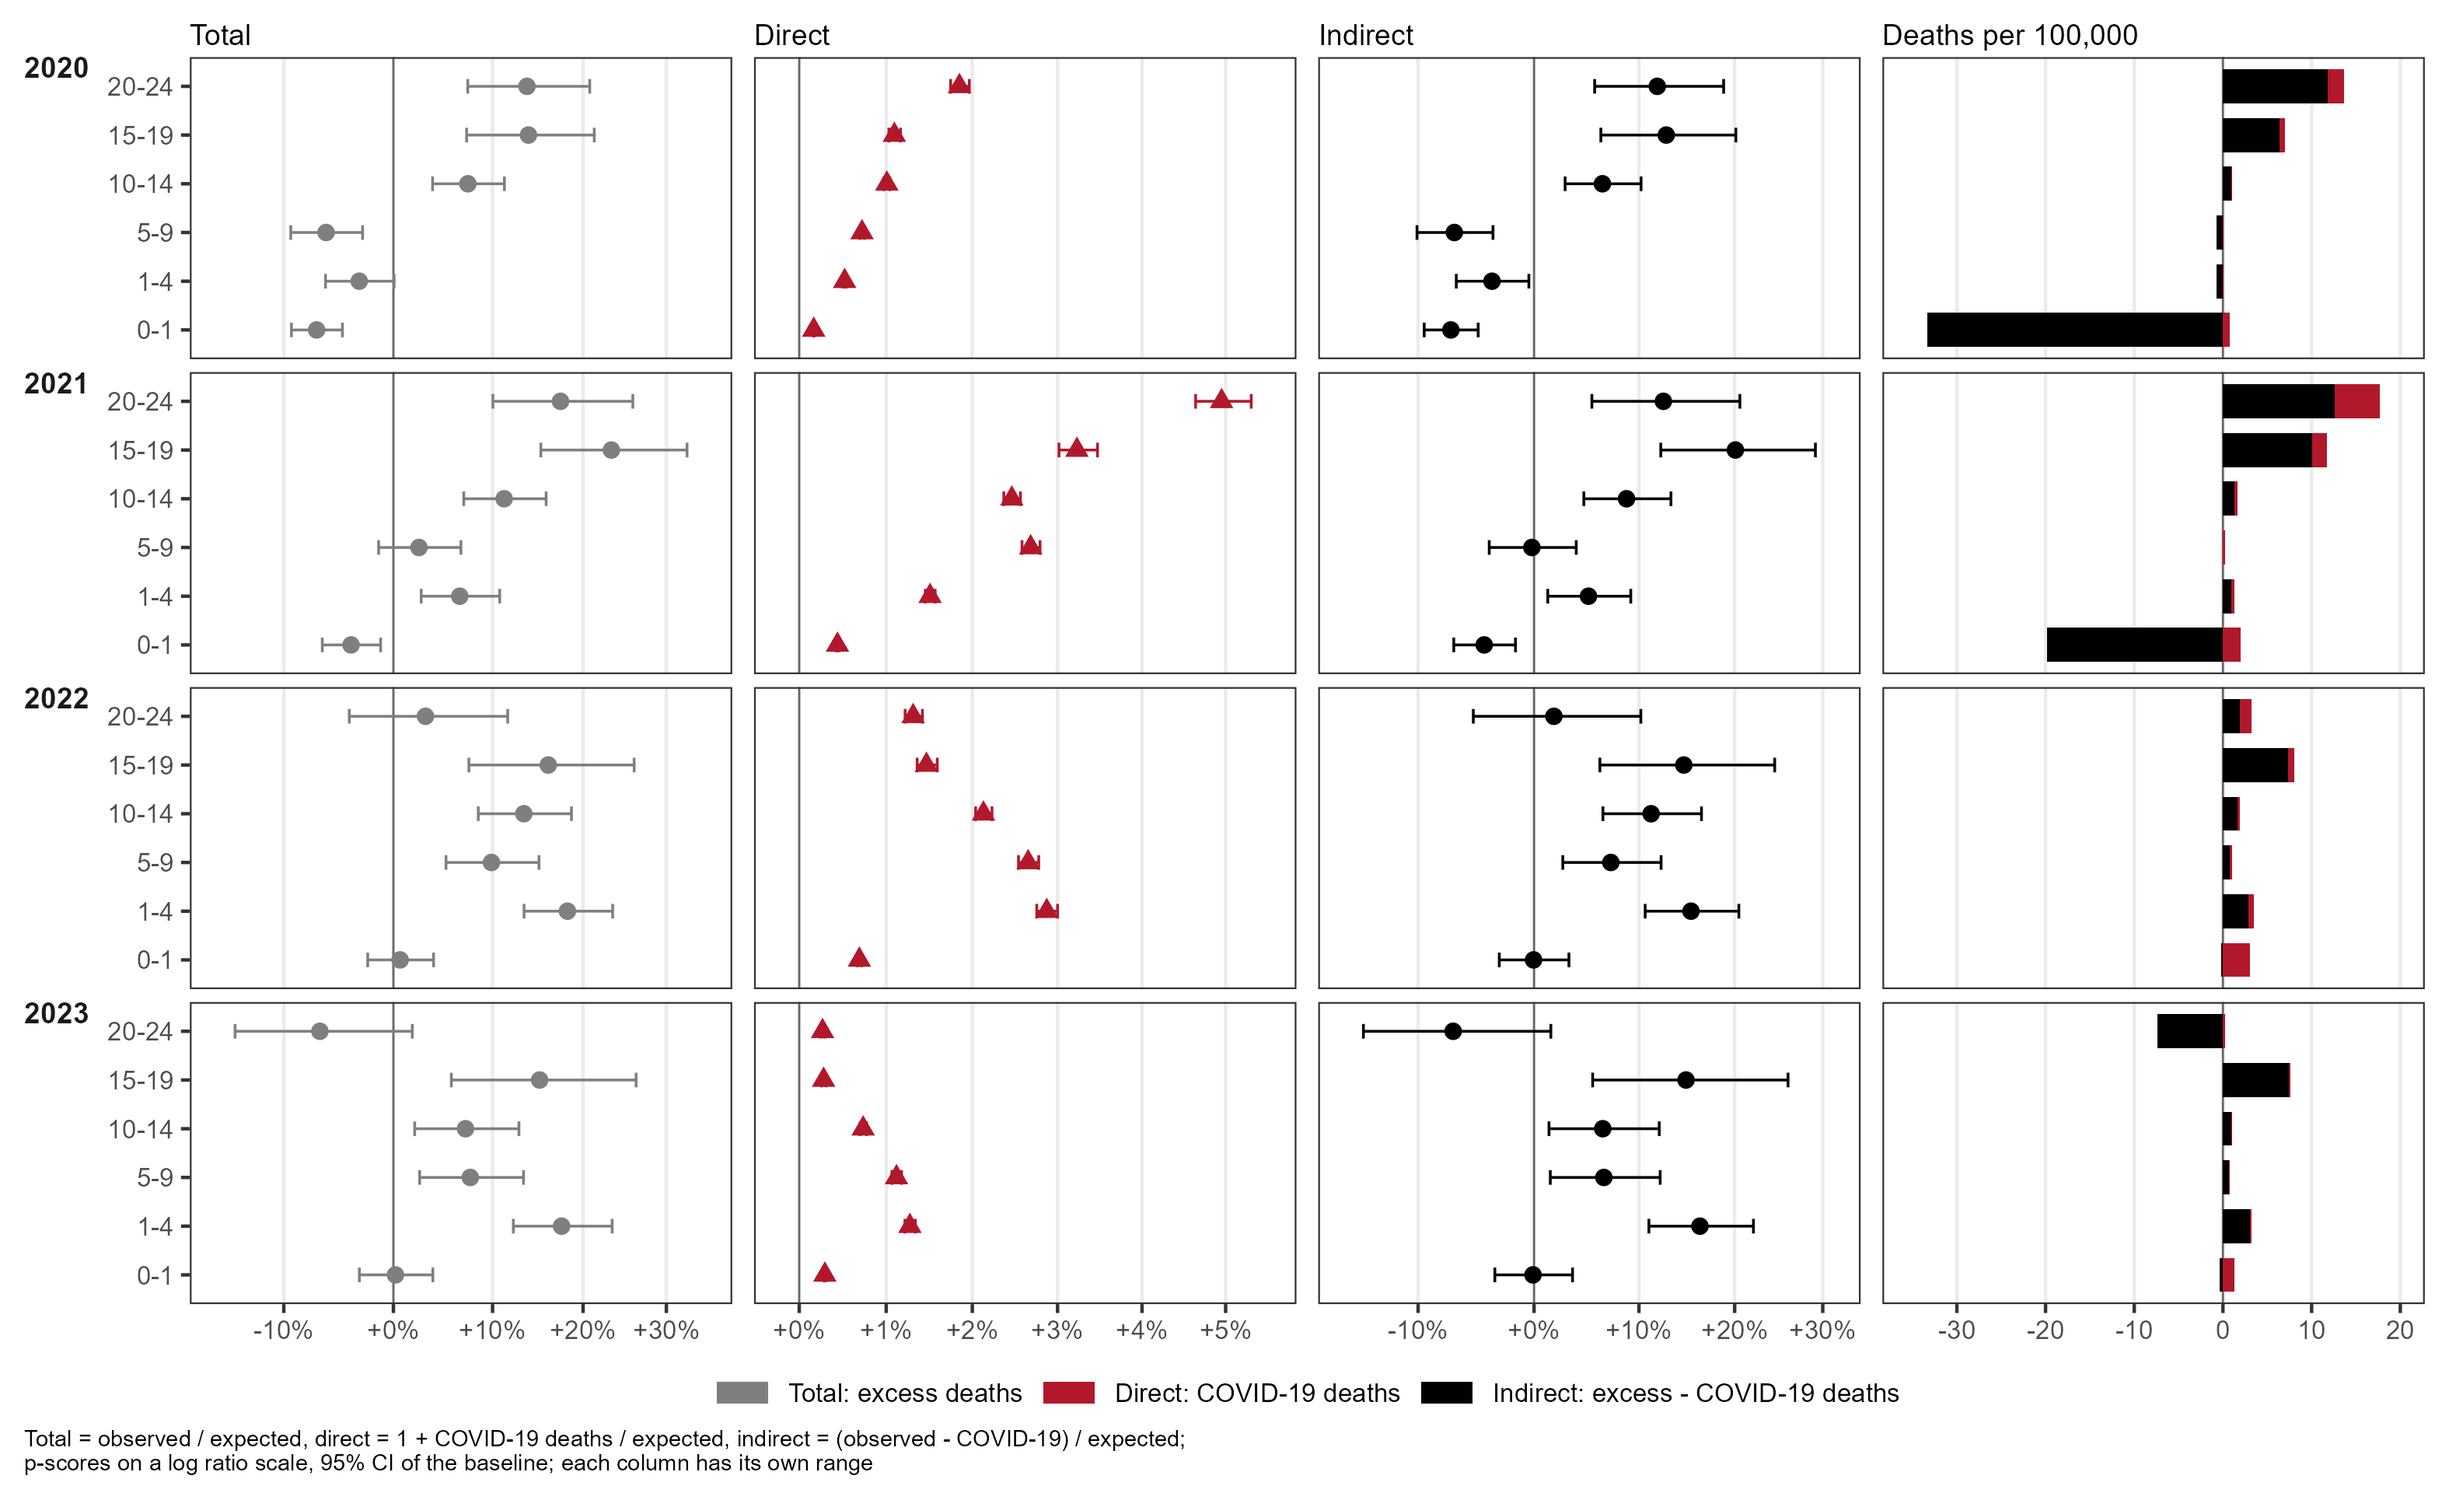
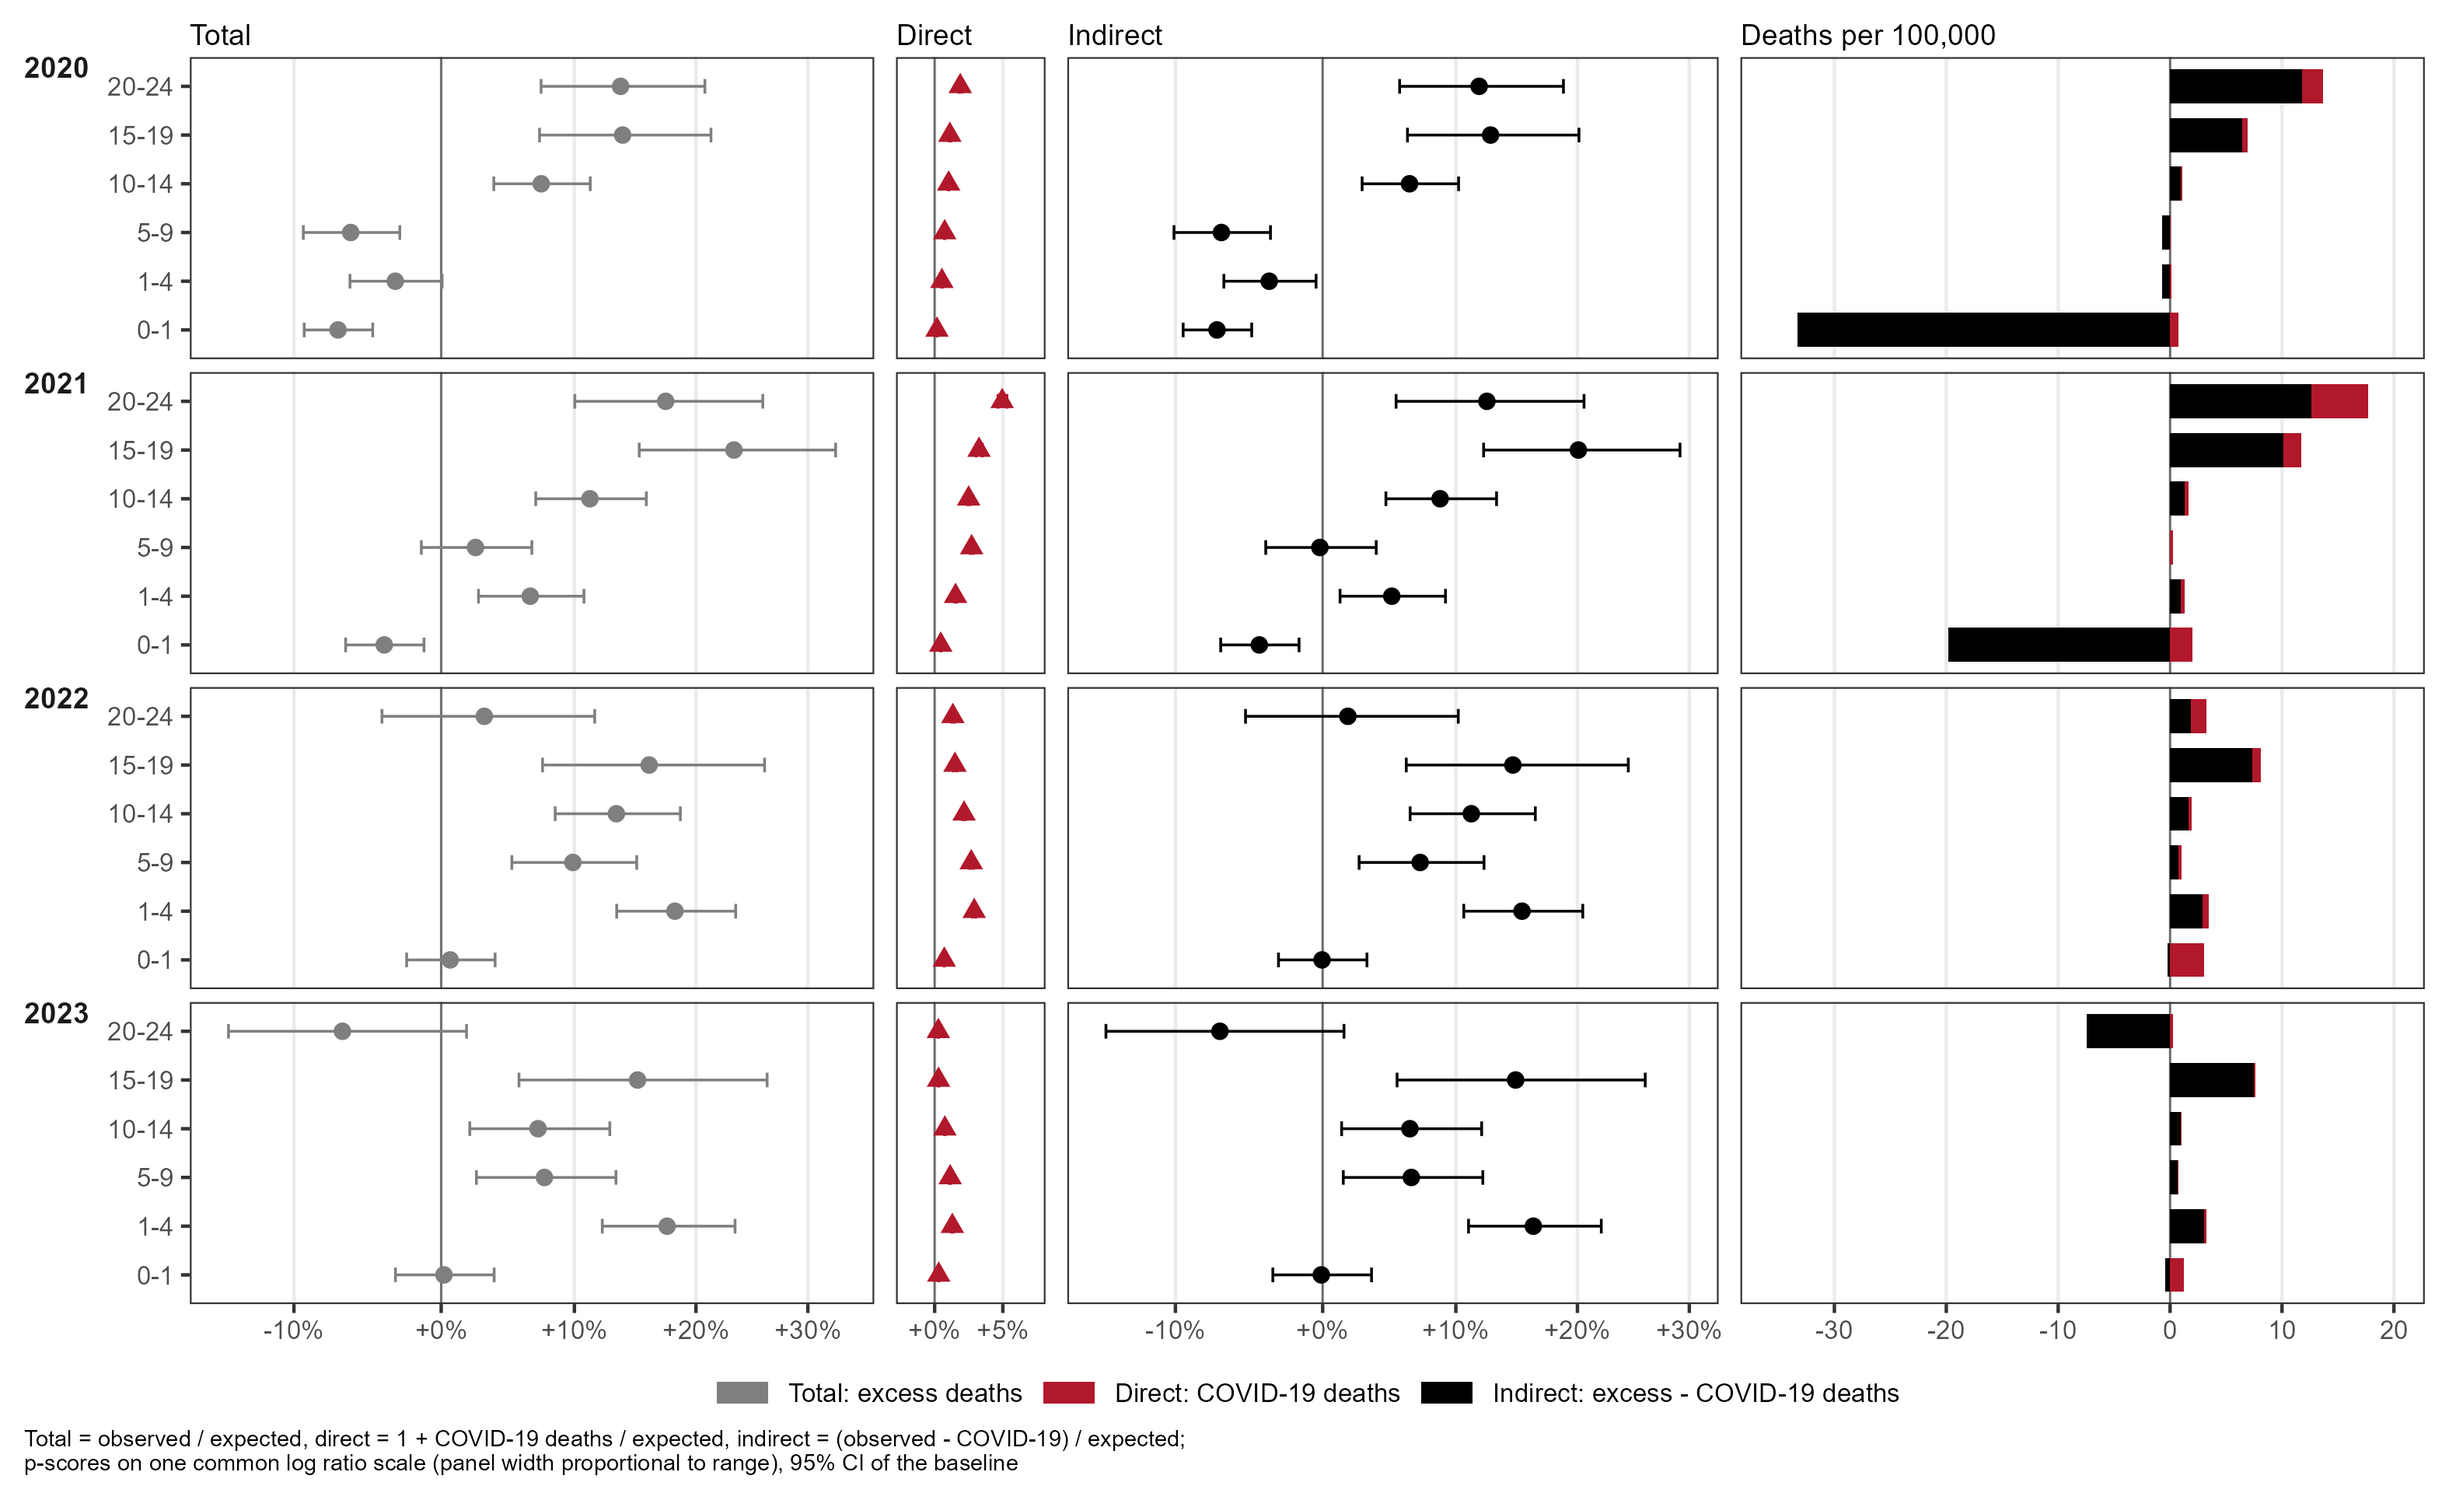
Figure 1 alternative B: one common x scale with panel widths proportional to range; drop variant C

diff --git a/README.md b/README.md
@@ -33,7 +33,7 @@ Developed with R 4.6.1 on Windows; package versions are pinned in `renv.lock`.
 | `code/10_sensitivity.R` | `figures/figS1_sensitivity_excess_by_age.png`, `figures/figS2_baselines_by_specification.png` (+ `.csv`), `output/sensitivity_summary.txt`, `figures/figS3_cv_rolling_origin.png`, `output/sensitivity_state_baseline_aggregation.csv`, `output/sensitivity_cv_rolling_origin.csv` | **Figures S1–S3**, appendix |
 | `code/11_cyp_vs_all_ages_by_state.R` | `data_inter/cyp_vs_all_ages_by_state.rds`, `tables/tableS1_pscores_cyp_share_by_state.csv` | age-standardised p-scores by state for CYP, adults and all ages; CYP share of excess and of COVID-19 deaths; CYP p-score split into direct and indirect (Table S1; mapped by `alt_fig2_maps_by_state.R`) |
 | `code/alt_00_map_helpers.R` | — | map theme and drawing functions shared by the alternative maps |
-| `code/alt_fig1_by_age.R` | `figures/alternatives/fig1_altA_pscore_by_age.png`, `fig1_altB_total_direct_indirect_by_age.png` (+ `.csv`), `fig1_altC_total_direct_indirect_common_scale.png` | alternative versions of Figure 1: A, points (rates, p-scores on a log ratio axis, COVID-19/excess with its interval); B, total, direct (COVID-19 / expected) and indirect ((excess − COVID-19) / expected) p-scores by age plus stacked direct/indirect rates; C, as B on one common scale with panel widths proportional to range |
+| `code/alt_fig1_by_age.R` | `figures/alternatives/fig1_altA_pscore_by_age.png`, `fig1_altB_total_direct_indirect_by_age.png` (+ `.csv`) | alternative versions of Figure 1: A, points (rates, p-scores on a log ratio axis, COVID-19/excess with its interval); B, total, direct (COVID-19 / expected) and indirect ((excess − COVID-19) / expected) p-scores by age on one common scale (panel widths proportional to range) plus stacked direct/indirect rates |
 | `code/alt_fig2_maps_by_state.R` | `figures/alternatives/fig2_altA_pscores_by_state.png`, `fig2_altB_cyp_pscore_diff_by_state.png`, `fig2_altC_cyp_share_by_state.png`, `fig2_altD_cyp_pscore_direct_indirect_by_state.png`, `fig2_altE_cyp_pscore_direct_indirect_common_scale.png` | alternative versions of Figure 2: A, CYP and adult p-scores and their difference (CYP minus adults); B, CYP p-score minus US and minus adults; C, CYP share of excess deaths, of COVID-19 deaths and of indirect excess (one colour scale); D, CYP p-score split into total, direct and indirect; E, as D on one common colour scale |
 | `code/12_explore_race_pscores.R` (exploratory, not in `run_all.R`) | `figures/alternatives/figR1_pscore_excess_by_race.png`, `figR2_pscore_by_race_age.png`, `figR3_direct_indirect_by_race.png` (+ `.csv`) | p-scores and excess rates by race/ethnicity, 0–24; needs `data_input/all_cause_race/` (WONDER API, see its README) |
 
@@ -75,7 +75,7 @@ Known limitations of the input data and of the estimation, in the order they aff
 code/              numbered scripts, run in order by run_all.R
 data_input/        CDC WONDER exports (inputs) + README and query index; all_cause_race/ = API pulls for script 12
 data_inter/        intermediate .rds produced by scripts 01–04 (+ cached state boundaries)
-figures/           fig1 … fig5 and figS1 … figS3 (.png) with their data (.csv), the versions in the paper; alternatives/ holds the alternative versions drawn by the alt_fig* scripts (fig1_altA–C, fig2_altA–E) and the race exploration (figR1–R3). Kept for now: fig1_altB, fig2_altC and fig2_altD
+figures/           fig1 … fig5 and figS1 … figS3 (.png) with their data (.csv), the versions in the paper; alternatives/ holds the alternative versions drawn by the alt_fig* scripts (fig1_altA/B, fig2_altA–E) and the race exploration (figR1–R3). Kept for now: fig1_altB, fig2_altC and fig2_altD
 tables/            Tables A1 and A2 (.docx and .csv), Table S1 (.csv)
 output/            numbers quoted in the text; sensitivity summary
 renv.lock          pinned package versions
